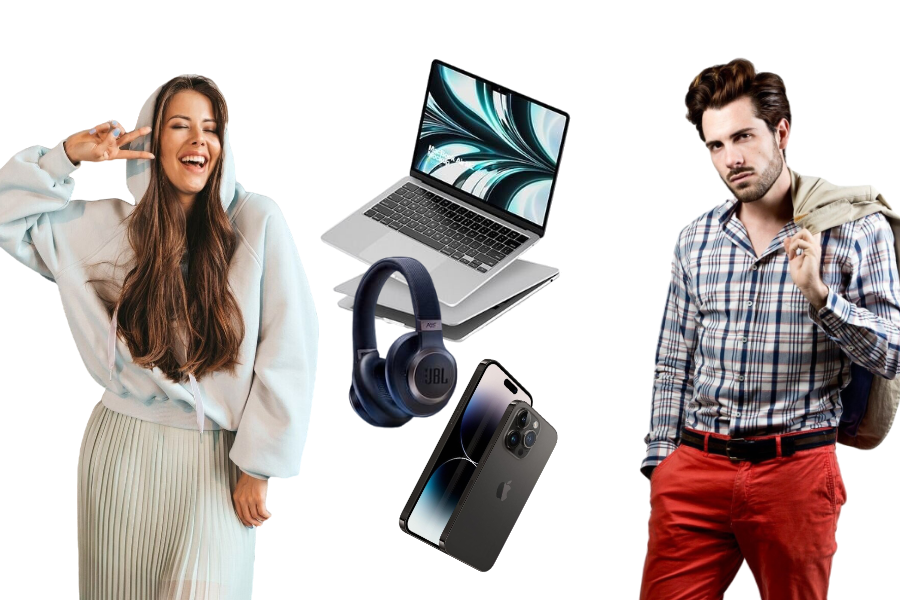
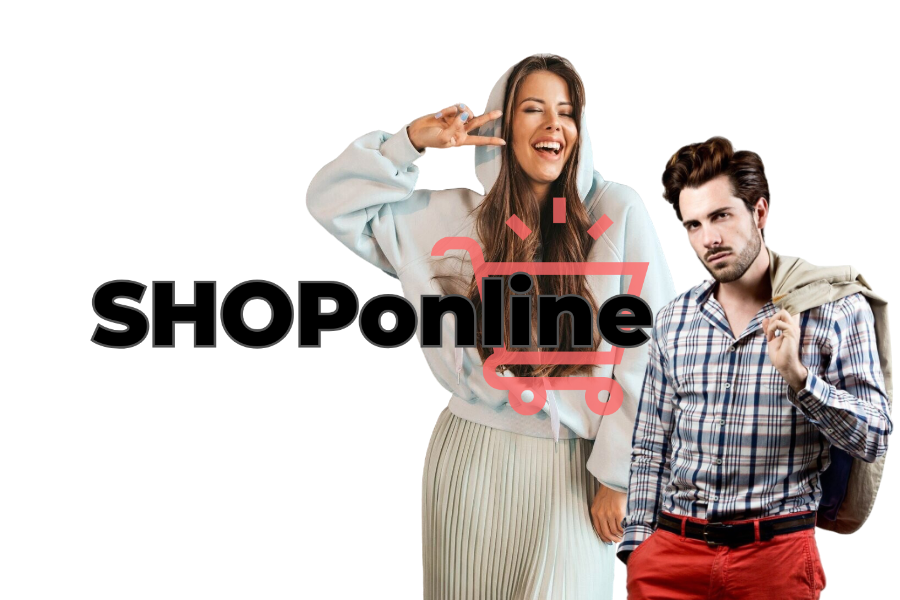
responsive home

diff --git a/src/components/Head.tsx b/src/components/Head.tsx
@@ -2,8 +2,8 @@ import Image from "next/image";
 
 const Head = () => {
   return (
-    <div className=" md:w-[94%] md:mx-auto md:pt-4 md:border md:border-gray-300 rounded-md bg-gradient-to-r from-white to-gray-300">
-        <div className="hidden md:block w-full">
+    <div className="bg-gray-400 md:bg-transparent">
+        <div className="hidden w-[94%] pt-4 mx-auto md:block rounded-md bg-gradient-to-r from-white to-gray-300">
           <Image src="/bggg.png" 
                  layout="responsive" 
                  alt="Logo shoppyfy"  
@@ -11,13 +11,14 @@ const Head = () => {
                  height={100} 
                  className="w-full md:h-auto object-cover" />
         </div>
-        <div className="w-full md:hidden">
-          <Image src="/bgMovi.png" 
-                 layout="responsive" 
-                 alt="Logo shoppyfy"  
-                 width={400} 
-                 height={300} 
-                 className="w-full h-auto object-cover" />
+        <div className="w-[96%] h-auto mx-auto md:hidden rounded-md bg-gradient-to-r from-white to-gray-300 overflow-hidden">
+          <Image 
+            src="/bgMov.png" 
+            alt="Logo de ShoppOnline"  
+            width={100} 
+            height={100} 
+            className="w-full h-auto object-cover" 
+          />
         </div>
     </div>
   );
